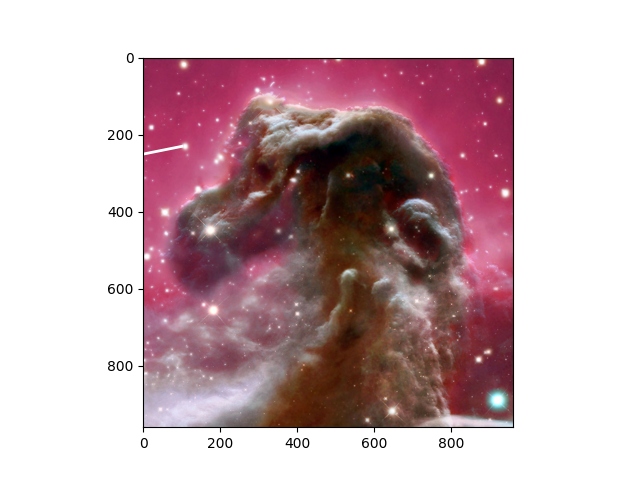
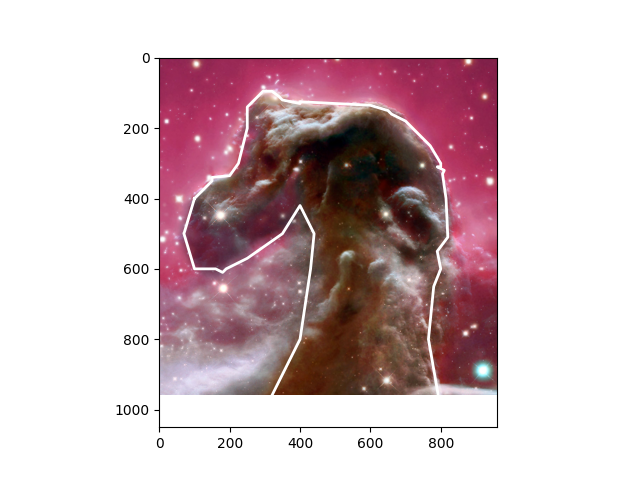
gifytertfsyri

Changed region(s): [[0.1562, 0.0938, 0.8125, 0.9375], [0.2812, 0.125, 0.3125, 0.1562]]

diff --git a/bdfb.py b/bdfb.py
@@ -1,0 +1,54 @@
+import matplotlib.pyplot as plt
+import numpy as np
+
+fig, ax = plt.subplots()
+x = [1, 2 , 3]
+y = [7, 9, 7]
+ax.plot(x, y, '-',lw = 2, color = 'k')
+
+t = np.linspace(np.pi/2 + np.pi/6,np.pi/2 - np.pi/6,100 )
+x = 4 + 2*np.cos(t)
+y = 5.25 + 2*np.sin(t)
+ax.plot(x, y ,'-',lw = 2, color = 'k')
+
+x = [5, 6 , 7]
+y = [7, 9, 7]
+ax.plot(x, y, '-',lw = 2, color = 'k')
+
+t = np.linspace(2*np.pi,np.pi ,200 )
+x = 4+3*np.cos(t)
+y = 7 + 5*np.sin(t)
+ax.plot(x, y, '-',lw = 2, color = 'k')
+
+t = np.linspace(np.pi/2 + np.pi/6,np.pi/2 - np.pi/6,100 )
+x = 3 + 1*np.cos(t)
+y = 4 + 2*np.sin(t)
+ax.plot(x, y, '-',lw = 2, color = 'k')
+
+t = np.linspace(np.pi/2 + np.pi/6,np.pi/2 - np.pi/6,100 )
+x = 5 + 1*np.cos(t)
+y = 4 + 2*np.sin(t)
+ax.plot(x, y, '-',lw = 2, color = 'k')
+
+t = np.linspace(2*np.pi,np.pi ,100 )
+x = 3+0.5*np.cos(t)
+y = 5.7 + 0.5*np.sin(t)
+ax.plot(x, y, '-',lw = 2, color = 'k')
+
+t = np.linspace(2*np.pi,np.pi ,100 )
+x = 5+0.5*np.cos(t)
+y = 5.7 + 0.5*np.sin(t)
+ax.plot(x, y, '-',lw = 2, color = 'k')
+
+x = [3.8,4.2,4,3.8]
+y = [5,5,4,5]
+ax.plot(x, y, '-',lw = 2, color = 'k')
+
+t = np.linspace(2*np.pi,np.pi ,100 )
+x = 4+0.5*np.cos(t)
+y = 3.5 + 0.5*np.sin(t)
+ax.plot(x, y, '-',lw = 2, color = 'k')
+
+plt.axis('equal')
+plt.savefig('KILL4.png')
+

diff --git a/image_aproximation.py b/image_aproximation.py
@@ -4,8 +4,8 @@ import numpy as np
 img = plt.imread('horsehead_aldohubble_960.jpg')
 fig, ax = plt.subplots()
 ax.imshow(img)
-x = [0, 100]
-y = [250,230]
+x = [100, 120,130,140,150,150,200,225,250,250,265,270,280,290,295,310,320,340,350,400,400,600,650,660,680,700,720,750,770,800,800,790,810,805,815,820,790,800,780,765,800,300,400,430,440,400,350,250,190,180,160,100,70,100]
+y = [400,380,370,360,350,340,335,300,200,140,125,120,110,100,95,95,95,110,120,130,125,135,150,160,170,180,200,230,250,300,310,310,320,330,400,510,550,600,650,800,1000,1000,800,600,500,420,500,570,600,610,600,600,500,400]
 plt.plot(x,y,lw = 2, color = 'w')
 plt.ylim()
 plt.savefig('KILL3.png')

diff --git a/aproximation.py b/aproximation.py
@@ -20,6 +20,10 @@ x = 4+3*np.cos(t)
 y = 7 + 5*np.sin(t)
 ax.plot(x, y, '-',lw = 2, color = 'k')
 
+t = np.linspace(np.pi/2 + np.pi/6,np.pi/2 - np.pi/6,100 )
+x = 3+1.5*np.cos(t)
+y = 4 + 2*np.sin(t)
+
 plt.axis('equal')
 plt.savefig('KILL.png')
 
